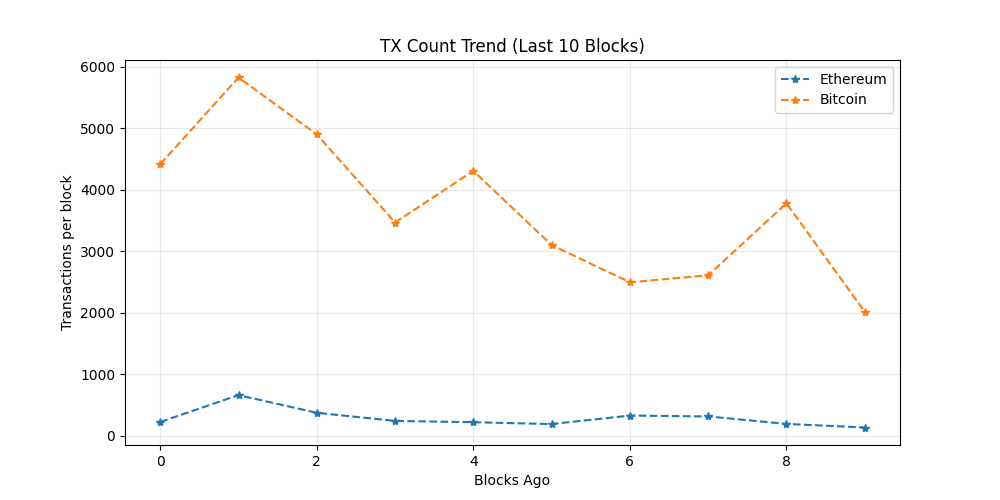
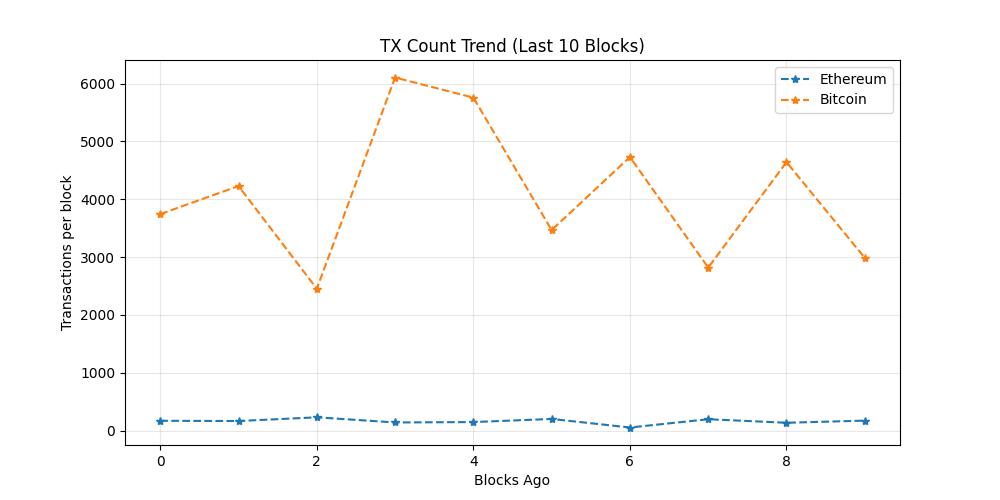
chore: update on-chain dashboard

diff --git a/README.md b/README.md
@@ -19,7 +19,7 @@ The README itself acts as the dashboard and is regenerated automatically on a 6 
 demonstrating a production-style, infrastructure-focused observability workflow rather
 than a traditional UI-driven approach.
 
-_Last updated: 2026-04-16 19:37 UTC_
+_Last updated: 2026-04-17 03:44 UTC_
 
 ## API Usage (GetBlock.io)
 - Calls used: **24**
@@ -27,8 +27,8 @@ _Last updated: 2026-04-16 19:37 UTC_
 ## Network Metrics
 | Chain | Block Height | TX Count | TPS (10 blk avg) | Block Util | Avg Fee |
 |------|-------------|----------|------------------|------------|---------|
-| Ethereum | 24894528 | 134 | 11.17 | 23.59% | 0.2 Gwei |
-| Bitcoin | 945376 | 2015 | 41.98 | 86.01% | N/A |
+| Ethereum | 24896958 | 172 | 14.33 | 64.63% | 0.1 Gwei |
+| Bitcoin | 945423 | 2987 | 1.66 | 99.79% | N/A |
 
 ## Visuals
 ### Transactions Trend
@@ -43,11 +43,11 @@ _Last updated: 2026-04-16 19:37 UTC_
 ## Whale Alerts (latest block)
 - Transaction hashes are truncated for readability.
 - Full hashes are available in `dashboards/metrics.json`
-- Bitcoin | 533.9 BTC | `700c35023085…`
-- Bitcoin | 129.3 BTC | `599f1e65102b…`
-- Bitcoin | 121.62 BTC | `8fa79d7b10e8…`
-- Bitcoin | 121.62 BTC | `1221ddaaab10…`
-- Bitcoin | 121.61 BTC | `ac7e257159ae…`
+- Bitcoin | 898.14 BTC | `2b50b2e40e21…`
+- Bitcoin | 194.76 BTC | `55c627cf259b…`
+- Bitcoin | 241.0 BTC | `4cfd0d3eb51b…`
+- Bitcoin | 901.32 BTC | `f7e1cb4c73b1…`
+- Bitcoin | 337.89 BTC | `51721ead4fcc…`
 
 ## Run locally
 
